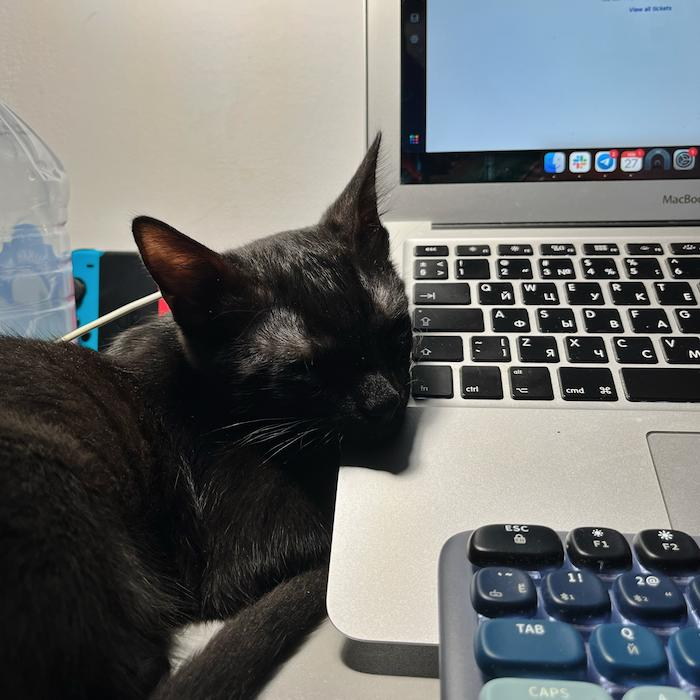
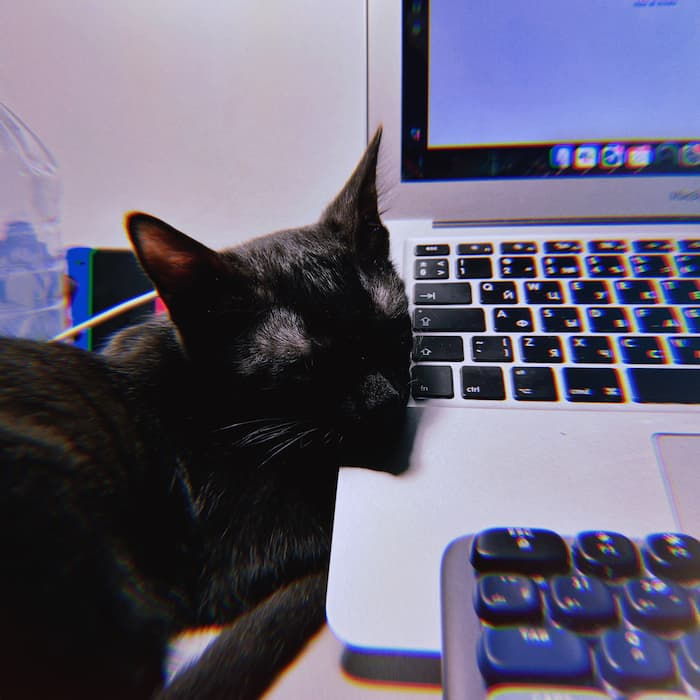
updated-final

diff --git a/styles/style.css b/styles/style.css
@@ -213,7 +213,7 @@
 }
 
 .inverted {
-  filter: invert(70%);
+  filter: invert(20%);
 }
 
 .grayscaled {
@@ -221,7 +221,7 @@
 }
 
 .hue-rotated-sepia {
-  filter: hue-rotate(0.8turn) sepia(0.5);
+  filter: hue-rotate(0.8turn) sepia(1);
 }
 
 .save-button {
